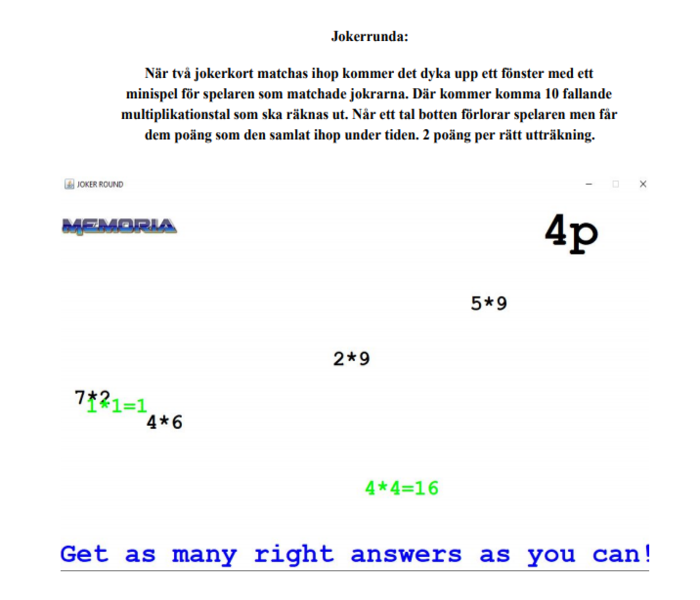
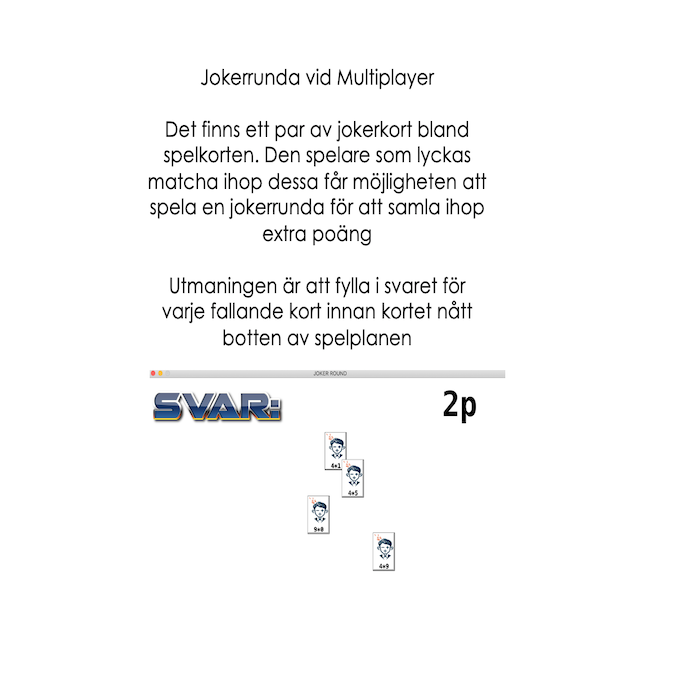
Gjort klart alla nya bilder till inställningar

diff --git a/src/Game/View/HelpGUI.java b/src/Game/View/HelpGUI.java
@@ -128,8 +128,8 @@ public class HelpGUI extends JFrame {
         panel4.add(btnBack[3]);
         panel5.add(btnBack[4]);
         panel6.add(btnBack[5]);
-        panel5.add(btnBack[6]);
-        panel6.add(btnBack[7]);
+        panel7.add(btnBack[6]);
+        panel8.add(btnBack[7]);
 
         panel1.add(btnOK[0]);
         panel2.add(btnOK[1]);
@@ -256,7 +256,7 @@ public class HelpGUI extends JFrame {
         }
     }
     private class Panel7 extends JPanel {
-        private ImageIcon hjälp6Bild = new ImageIcon("images/hjälp6.PNG");
+        private ImageIcon hjälp6Bild = new ImageIcon("images/hjälp7.PNG");
 
         private JLabel lblbild = new JLabel(hjälp6Bild);
         public Panel7(){
@@ -269,7 +269,7 @@ public class HelpGUI extends JFrame {
         }
     }
     private class Panel8 extends JPanel {
-        private ImageIcon hjälp6Bild = new ImageIcon("images/hjälp6.PNG");
+        private ImageIcon hjälp6Bild = new ImageIcon("images/hjälp8.PNG");
 
         private JLabel lblbild = new JLabel(hjälp6Bild);
         public Panel8(){
